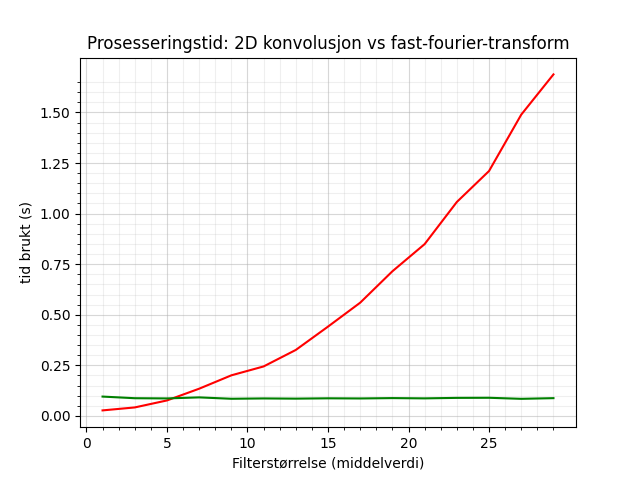
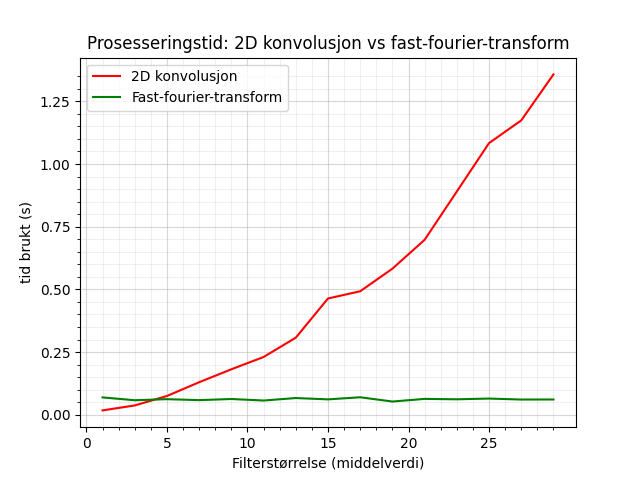
finished assignment

diff --git a/assignment-2/oppgave1.py b/assignment-2/oppgave1.py
@@ -43,9 +43,9 @@ def plot_curves(y1, y2, x):
     plt.xlabel("Filterstørrelse (middelverdi)")
     plt.ylabel("tid brukt (s)")
     plt.title("Prosesseringstid: 2D konvolusjon vs fast-fourier-transform")
+    plt.legend()
     plt.savefig("Prosesseringstid.png")
 
-    plt.legend()
     plt.show()
 
 def oppgave1_1(filename):
@@ -69,14 +69,6 @@ def oppgave1_1(filename):
     #Lagrer bildene som gråskala
     imwrite(f'oppg1_1 ({n}x{n}) '+filename, fh.astype(np.uint8))
     imwrite(f'oppg1_1 (fft2) '+filename, FH.astype(np.uint8))
-    
-    # #Plotter resultatet
-    # plt.imshow(FH, cmap='gray',vmin=0,vmax=255)
-    # plt.title(f'fft2 {filename}')
-    # plt.figure()
-    # plt.imshow(fh,cmap='gray',vmin=0,vmax=255)
-    # plt.title(f"({n}x{n}) {filename}")
-    # plt.show()
 
 def oppgave1_3(filename, n_tests):
     f = imread(filename, as_gray = True)
@@ -101,7 +93,6 @@ def oppgave1_3(filename, n_tests):
 
 def main():
     oppgave1_1('cow.png')
-    # oppgave1_2()
-    # oppgave1_3('cow.png', 31)
+    oppgave1_3('cow.png', 31)
 
 main()

diff --git a/assignment-2/in2070-oblig2-danistan.md b/assignment-2/in2070-oblig2-danistan.md
@@ -5,6 +5,7 @@
   - [Generelt](#generelt)
   - [Oppgave 1.1 og 1.2](#oppgave-11-og-12)
   - [Oppgave 1.2](#oppgave-12)
+  - [Oppgave 1.3](#oppgave-13)
 - [Oppgave 2 - Ikke-tapsfri JPEG-kompresjon](#oppgave-2---ikke-tapsfri-jpeg-kompresjon)
   - [Generelt om JPEG-kompresjon](#generelt-om-jpeg-kompresjon)
   - [Resultatbilder](#resultatbilder)
@@ -16,7 +17,7 @@
     - [Rekonstruert med kvantifiseringsfaktor q = 32](#rekonstruert-med-kvantifiseringsfaktor-q--32)
   - [a) Rekonstruksjonsfeil](#a-rekonstruksjonsfeil)
   - [b) Fremvisning av bilde](#b-fremvisning-av-bilde)
-  - [Kompresjonsfaktor q og kompresjonsraten](#kompresjonsfaktor-q-og-kompresjonsraten)
+  - [c) Kompresjonsfaktor q og kompresjonsraten](#c-kompresjonsfaktor-q-og-kompresjonsraten)
 
 # Oppgave 1 - Implementasjon av konvolusjonsfilter i frekvensdomenet
 
@@ -31,16 +32,56 @@ Bildene og tidskurvene lagres i mappen der `oppgave1.py` kjøres.
 
 ## Oppgave 1.1 og 1.2
 
+- Symmetri
+- DC frekvensen, altså 0,0 , er lik summen av alle pikselverdiene i bilde
+- Fasen gjør at shift teoremet Når noe flyttes er spekteret litkt, men fasen ulik. 
+- Sentrer laveste frekvens i midten, fouriertransform er periodisk, det gjelder kun for når man skal lage en intuisjon i amlitudespekterert
+
+- Sirkelkonvensjon av randen
+- Nullutvider filteret
+
+Antar at bildet f(x,y) er implsitt periodisk
 Originalbildet\
 <img src="./cow.png" width="700">
 
-Resultatbilde fra romlig konvolusjon med 15x15 middelverdifilter\
+Romlig konvolusjon med 15x15 middelverdifilter\
 <img src="./results/oppg1_1%20(15x15)%20cow.png" width="700">
 
-Resultatbilde fra frekvensdomenet med 15x15 middelverdifilter\
+Frekvensdomenet med 15x15 middelverdifilter\
 <img src="./results/oppg1_1%20(fft2)%20cow.png" width="700">
 
 ## Oppgave 1.2
+
+En sirkelkonvolusjon i bildedomene er ekvivalent med elementvis multiplikasjon i frekvensdomene. Det er dette som gjør at vi kan designe filter i bildedomene for deretter og transformere det til frekvensdomene, og visa-versa. Det er viktig at innbilde og filteret er av samme dimensjon. Derfor blir ofte filteret null-utvidet. Men grunnet at det er en sirkelkonvolusjon må bildet også nullutvides for å håndtere randen. Når man bruker DFT antar man implisitt en periodisitet i innbildet, som kan gi en konsekvens av hvordan resultatbildet blir. En slik konsekvens kan være en translasjon av bilde, slik som var tilfellet i denne oppgaven. Man ser også at randen av bildene er ulike. I den romlige konvolusjonen er bildet nullutvidet, og derfor får man en "svart" kant som rammer bildet. Dersom man hadde nullutvidet bilde ville man kunne fjerne den translatoriske konsekvensen av den implisitte periodisiteten.
+
+## Oppgave 1.3 
+
+Fast-fourier-tranformen, som utnytter 2D DFT er separabelt, har en kjøretid O(N log N), mens romlig konvolusjonsfiltrering O(n²). Det betyr at for store filter vil en filtrering i frekvensdomene være raskere, fordi (n² >> log N).
+
+Kjøretidskurver
+<img src="./results/Prosesseringstid.png" width="700">
+
+Kommentar til kjøretid:\
+Fra grafen ser man den romlige konvolusjonen øker med jo større filteret blir, med formen til n². Dersom filteret er lite, dvs mindre enn 4x4, så vil romlig konvolusjon være raskere. For de andre filterverdiene er fast-fourier-transformen raskest. 
+
+Tidskurven til fast-fourier-transformen var ikke som forventet. Jeg hadde trodd at den skulle øke mer før den stabiliserte seg. Mulig jeg gjort feil når jeg tok tiden, men gjorde likt på begge testene. Derfor kan resultatet mitt avvike fra virkeligheten, og det kan tenkes at romlig konvolusjon er raskere for litt større filter. Men det er helt sikkert at fast-fourier-transform er raskest for store filter, grunnet log n.
+
+Har lagt ved et utsnitt av koden under:
+
+```
+print("Starting timing process")
+for i, n in zip(range(values.shape[0]), values):
+    h = mean_value_kernel(n)
+    
+    start = time.time()
+    fh = signal.convolve2d(f,h,'same')
+    conv_time[i] = time.time()-start
+    
+    start = time.time()
+    FH = fast_fourier(f,h)
+    freq_time[i] = time.time()-start
+```
+
 
 # Oppgave 2 - Ikke-tapsfri JPEG-kompresjon
 
@@ -137,7 +178,7 @@ Vi kan se tilfeller av disse feilene i resultatbildene. Allerede med en kompresj
 ## b) Fremvisning av bilde
 Hvilken kompresjonsfaktor som er ok for å vise bilde baserer seg veldig mye på hva bilde skal brukes til. Jeg vil si at det rekonstruerte bilde med kompresjonsfaktor lik 8 er god nok til å vise på en dataskjerm der detaljnivået ikke er viktig. Du ser tydelig hva bildet inneholder. Derimot skulle det ble vist frem der behovet for mer detaljer er tilstedet, ville jeg ikke hatt en høyere kompresjonsfaktor enn 2. 
 
-## Kompresjonsfaktor q og kompresjonsraten
+## c) Kompresjonsfaktor q og kompresjonsraten
 
 Kompresjonsraten CR er definert som forholdet mellom b; det faste antallet bits per symbol i det ukomprimerte bildet/datamengden og c; som er det gjennomsnittlige antallet bits per symbol i det komprimerte bilde/datamengden. Når c minker, dvs at vi kan representere en piksel med mindre antall bits, vil kompresjonsraten øke fordi b er en fastsatt verdi.
 
